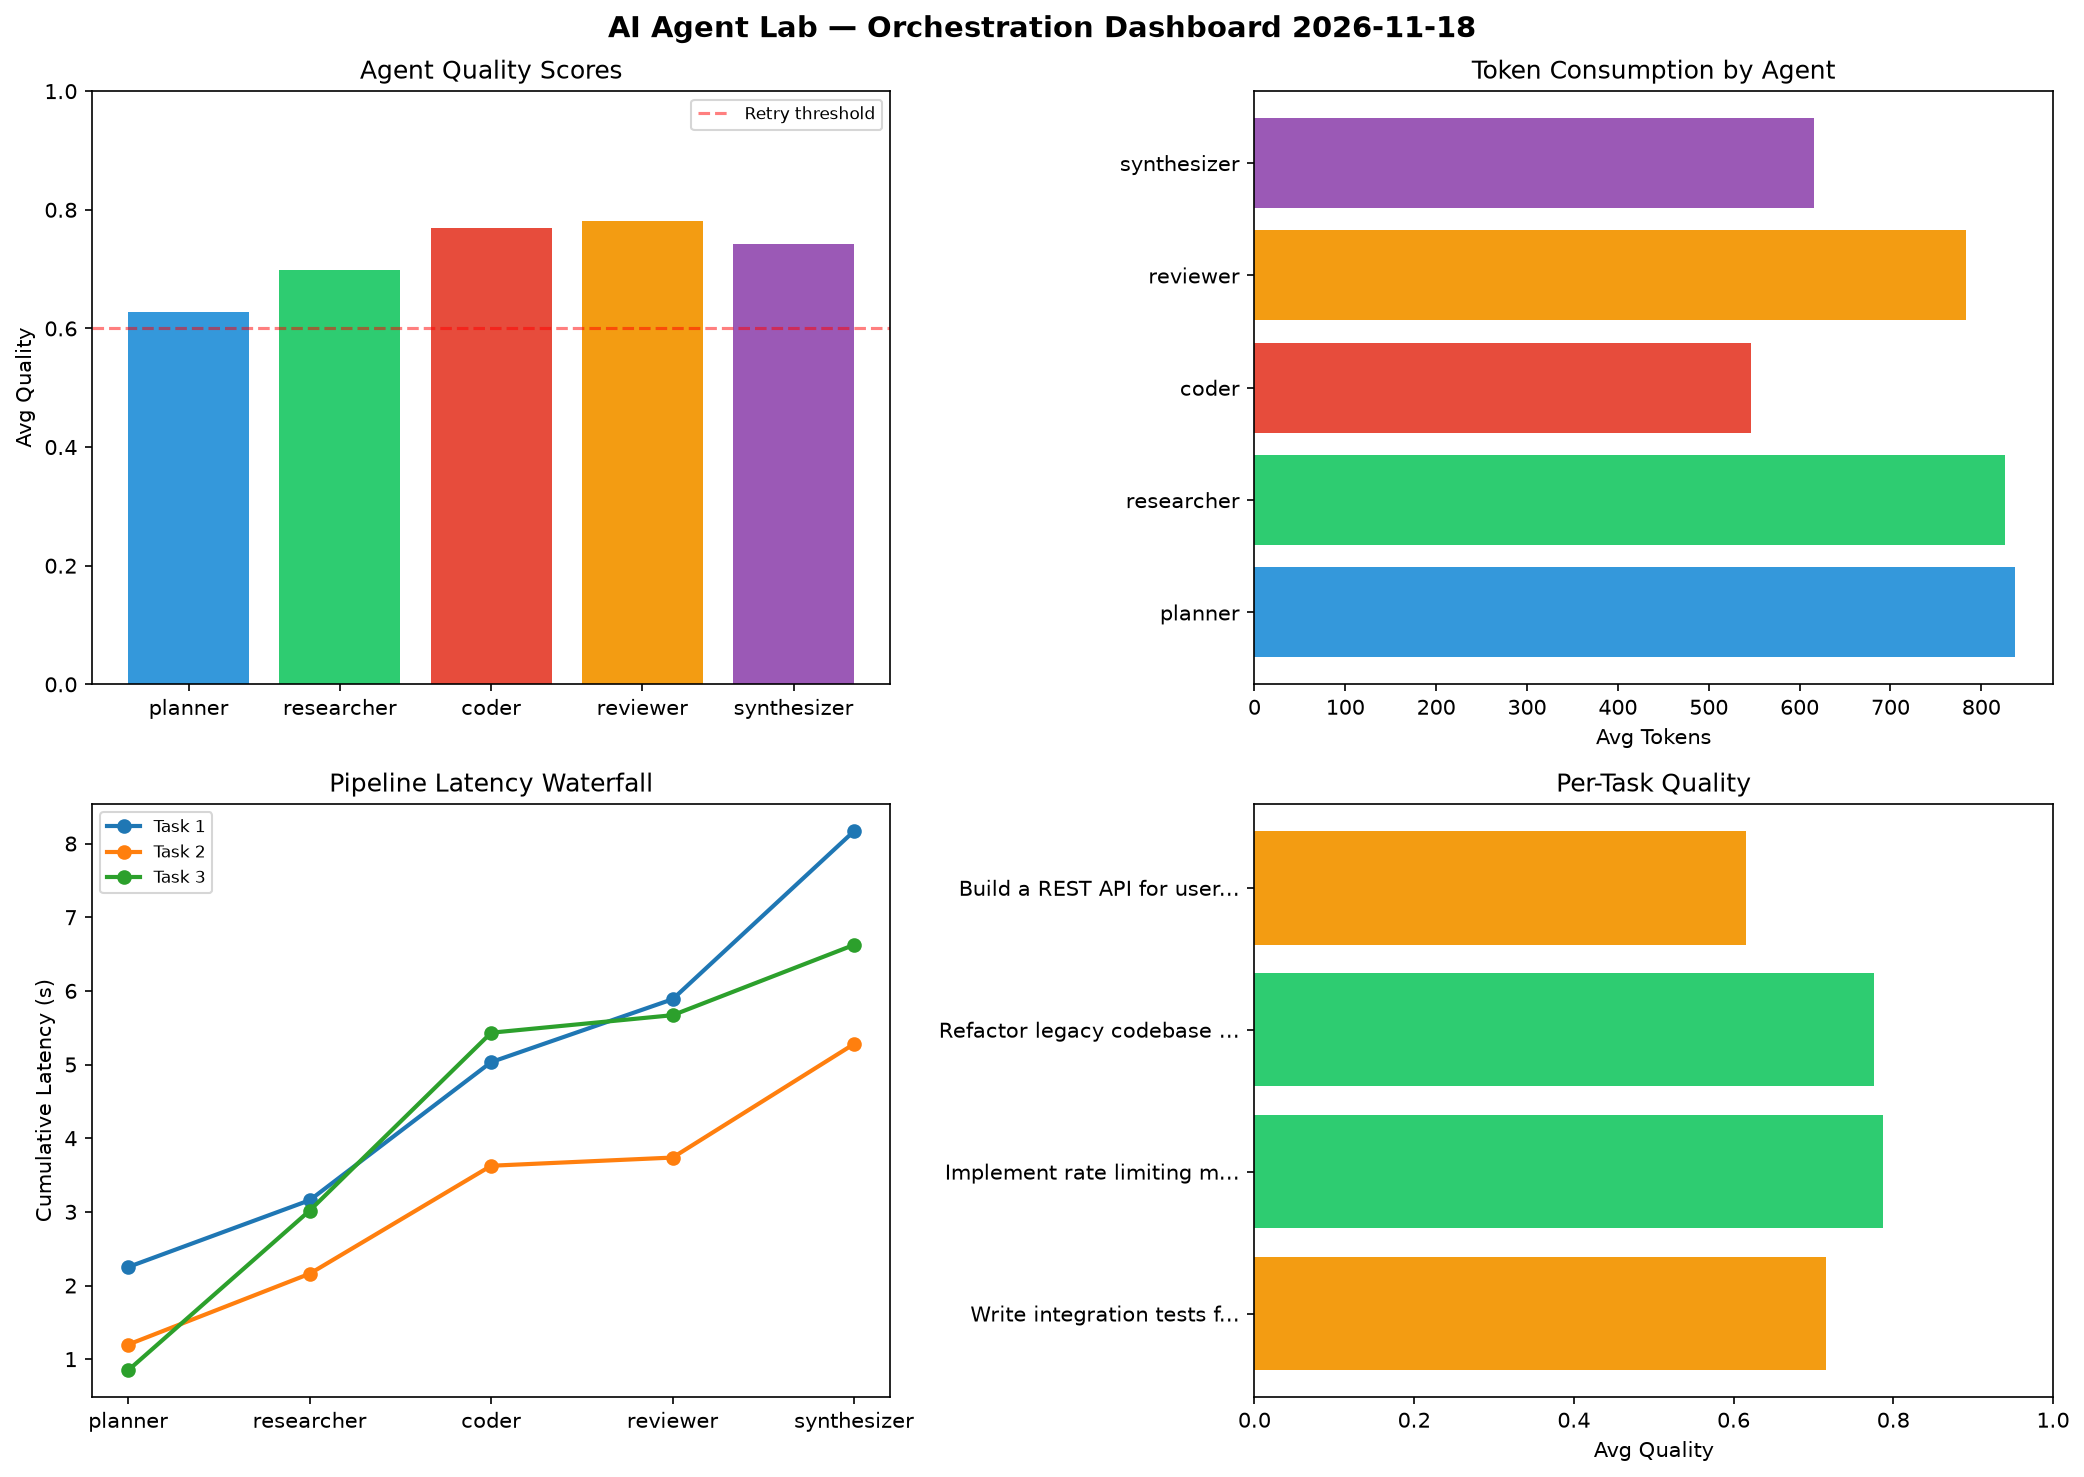
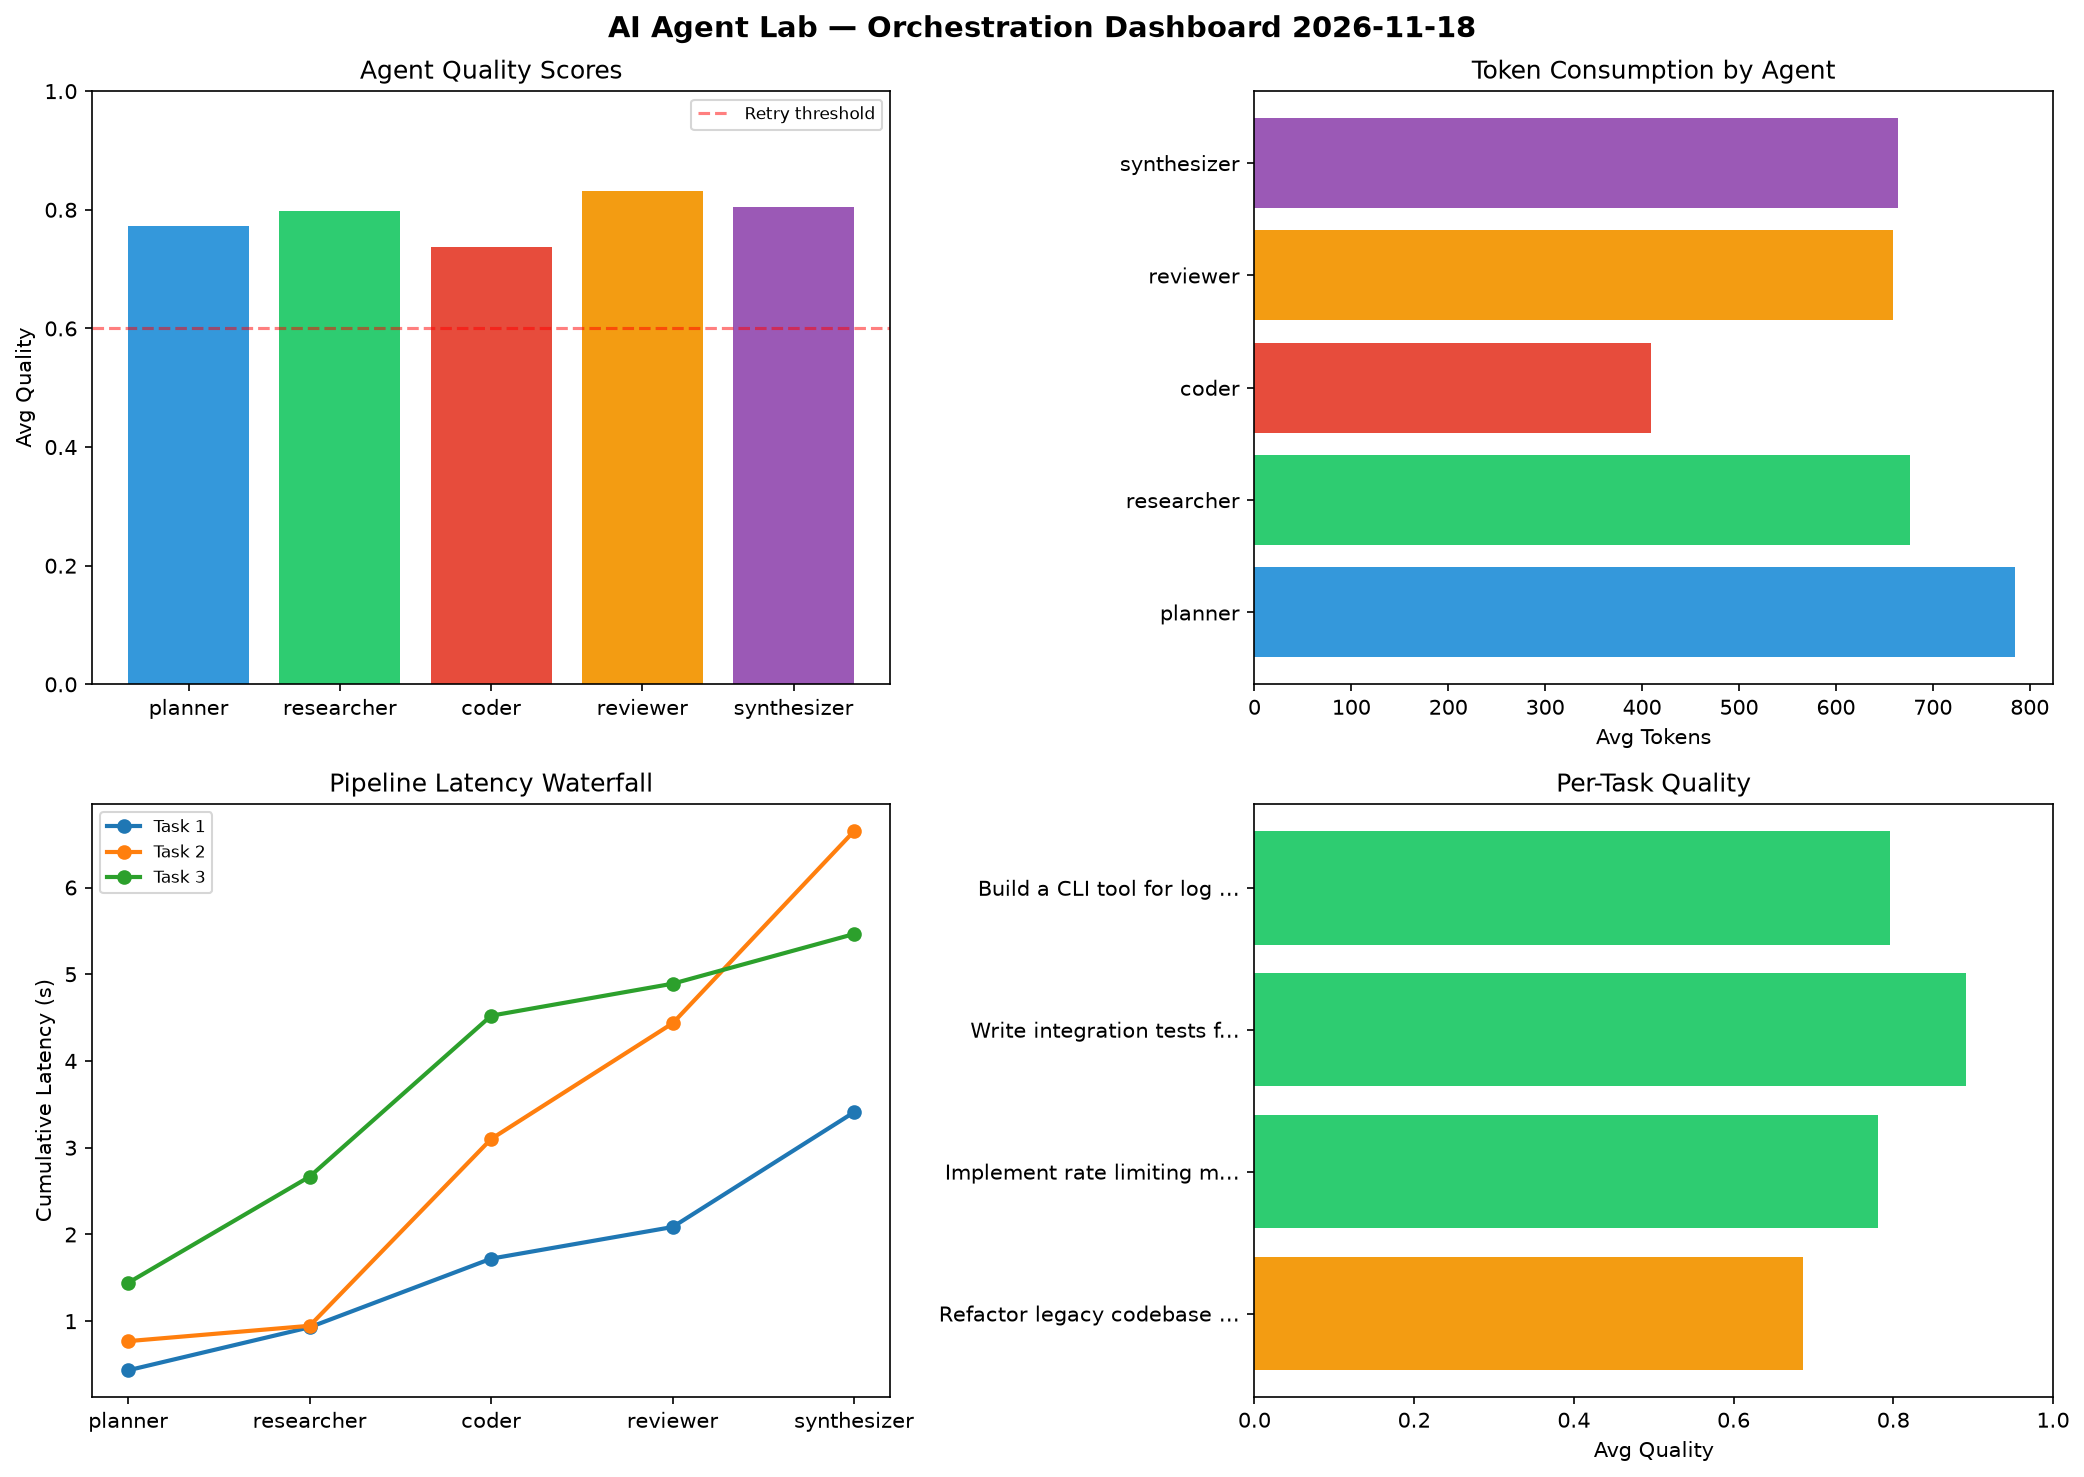
ai-agent-lab: orchestration run 2026-11-18T10:19

diff --git a/logs/2026-11-18.md b/logs/2026-11-18.md
@@ -1,6 +1,6 @@
 # AI Agent Lab — Orchestration Report 2026-11-18
 
-**Run ID:** `a1c5e09f86` | **Tasks:** 4 | **Avg Quality:** 0.724
+**Run ID:** `f690c2c3fe` | **Tasks:** 4 | **Avg Quality:** 0.789
 
 ![Dashboard](2026-11-18_dashboard.png)
 
@@ -8,52 +8,52 @@
 
 | Metric | Value |
 |--------|-------|
-| avg_latency | 6.321 |
-| total_tokens | 14439 |
-| avg_quality | 0.724 |
+| avg_latency | 6.329 |
+| total_tokens | 12769 |
+| avg_quality | 0.789 |
 
 ## Delta vs Yesterday
 
 | Metric | Today | Yesterday | Change |
 |--------|-------|-----------|--------|
-| avg_latency | 6.321 | 6.106 | 📈 3.5% |
-| total_tokens | 14439 | 13400 | 📈 7.8% |
-| avg_quality | 0.724 | 0.814 | 📉 -11.1% |
+| avg_latency | 6.329 | 6.106 | 📈 3.7% |
+| total_tokens | 12769 | 13400 | 📉 -4.7% |
+| avg_quality | 0.789 | 0.814 | 📉 -3.1% |
 
 ## Pipeline Results
-
-### Write integration tests for payment processing module
-| Agent | Quality | Latency | Tokens | Status |
-|-------|---------|---------|--------|--------|
-| planner | 0.577 | 2.251s | 697 | needs_retry |
-| researcher | 0.91 | 0.907s | 1020 | success |
-| coder | 0.642 | 1.875s | 768 | success |
-| reviewer | 0.854 | 0.854s | 775 | success |
-| synthesizer | 0.596 | 2.283s | 447 | needs_retry |
-
-### Implement rate limiting middleware
-| Agent | Quality | Latency | Tokens | Status |
-|-------|---------|---------|--------|--------|
-| planner | 0.526 | 1.198s | 954 | needs_retry |
-| researcher | 0.514 | 0.962s | 1003 | needs_retry |
-| coder | 0.976 | 1.466s | 416 | success |
-| reviewer | 0.937 | 0.111s | 878 | success |
-| synthesizer | 0.983 | 1.543s | 698 | success |
 
 ### Refactor legacy codebase to use dependency injection
 | Agent | Quality | Latency | Tokens | Status |
 |-------|---------|---------|--------|--------|
-| planner | 0.561 | 0.849s | 732 | needs_retry |
-| researcher | 0.794 | 2.168s | 792 | success |
-| coder | 0.876 | 2.415s | 489 | success |
-| reviewer | 0.826 | 0.238s | 670 | success |
-| synthesizer | 0.823 | 0.955s | 836 | success |
+| planner | 0.889 | 0.434s | 618 | success |
+| researcher | 0.833 | 0.496s | 568 | success |
+| coder | 0.571 | 0.791s | 774 | needs_retry |
+| reviewer | 0.552 | 0.365s | 930 | needs_retry |
+| synthesizer | 0.592 | 1.324s | 556 | needs_retry |
 
-### Build a REST API for user authentication
+### Implement rate limiting middleware
 | Agent | Quality | Latency | Tokens | Status |
 |-------|---------|---------|--------|--------|
-| planner | 0.846 | 2.35s | 965 | success |
-| researcher | 0.578 | 0.504s | 490 | needs_retry |
-| coder | 0.58 | 0.437s | 515 | needs_retry |
-| reviewer | 0.506 | 0.716s | 810 | needs_retry |
-| synthesizer | 0.567 | 1.202s | 484 | needs_retry |
+| planner | 0.67 | 0.77s | 980 | success |
+| researcher | 0.643 | 0.177s | 942 | success |
+| coder | 0.922 | 2.154s | 345 | success |
+| reviewer | 0.816 | 1.334s | 731 | success |
+| synthesizer | 0.854 | 2.216s | 989 | success |
+
+### Write integration tests for payment processing module
+| Agent | Quality | Latency | Tokens | Status |
+|-------|---------|---------|--------|--------|
+| planner | 0.868 | 1.443s | 794 | success |
+| researcher | 0.884 | 1.224s | 659 | success |
+| coder | 0.848 | 1.855s | 255 | success |
+| reviewer | 0.975 | 0.369s | 363 | success |
+| synthesizer | 0.882 | 0.573s | 557 | success |
+
+### Build a CLI tool for log analysis
+| Agent | Quality | Latency | Tokens | Status |
+|-------|---------|---------|--------|--------|
+| planner | 0.664 | 2.481s | 747 | success |
+| researcher | 0.831 | 2.219s | 535 | success |
+| coder | 0.609 | 0.543s | 261 | success |
+| reviewer | 0.981 | 2.408s | 612 | success |
+| synthesizer | 0.894 | 2.141s | 553 | success |
